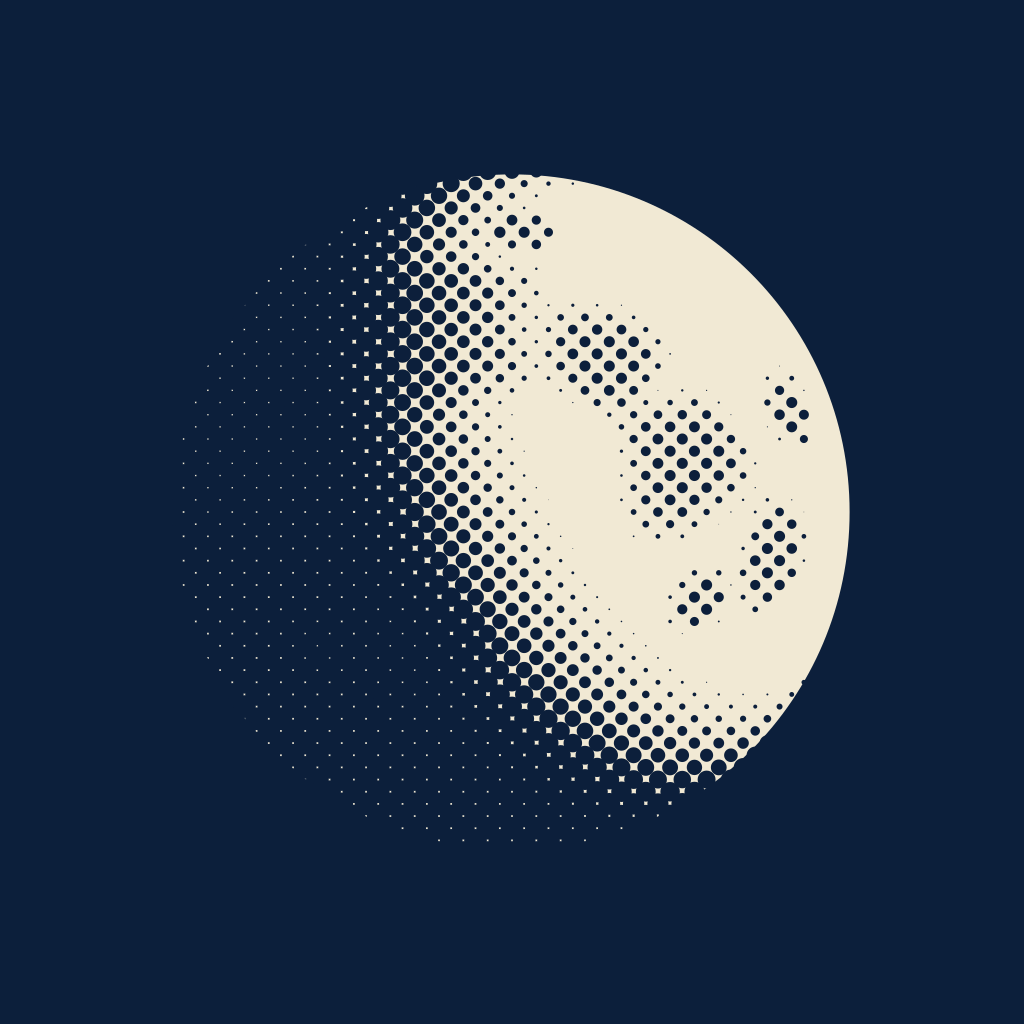
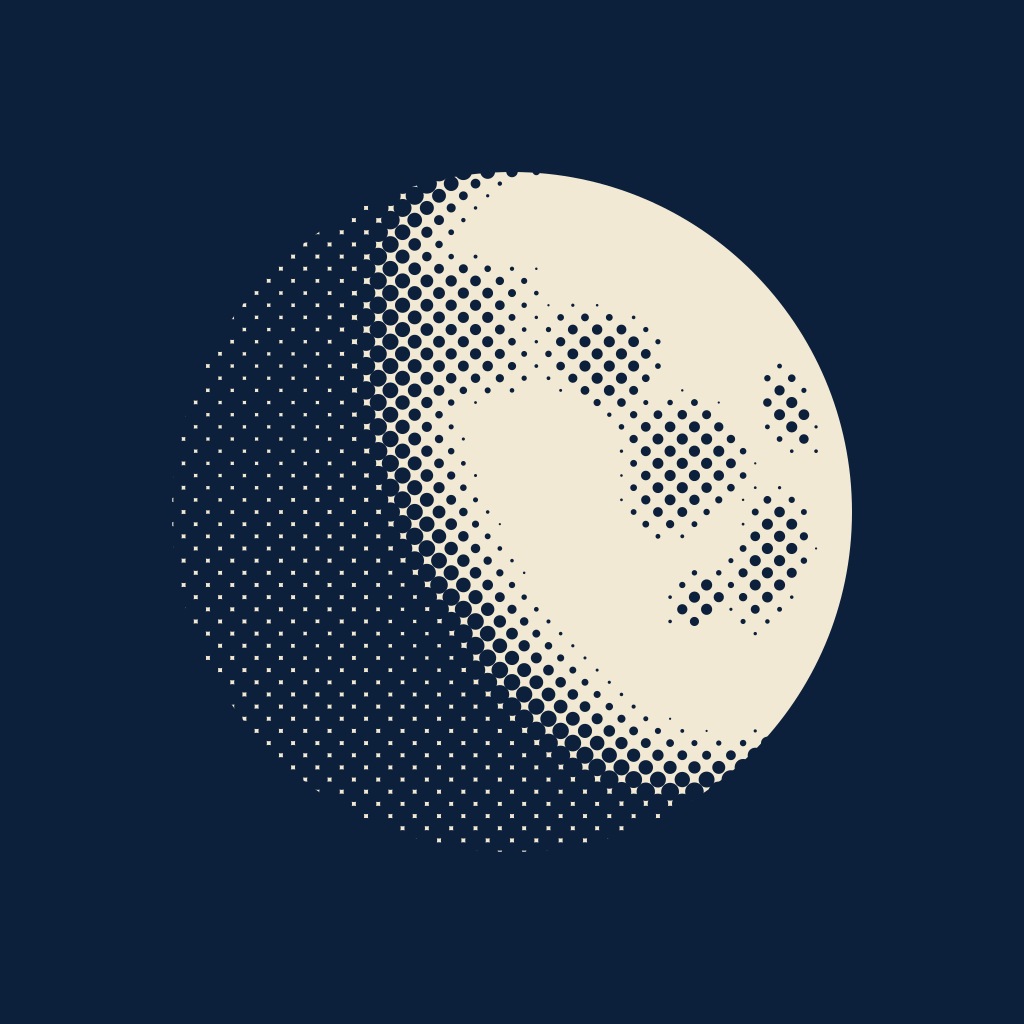
Map brightness to exact halftone ink coverage
The old dot radius 0.72 * sqrt(1 - brightness) printed about 1.63 times
the intended coverage in light tones. dot_radius now inverts the exact
coverage of a square dot grid, and the shading parameters are retuned
for it. Mare Frigoris is dropped, as it printed as a dashed line.
min_dot rises to 0.5, so tones below about 1 % ink print as plain paper.

The moon is now a paper disc over an ink field with unclipped dots,
which removes the paper hairline at the limb.

Also escape the SVG title, close the image in tag_png before overwriting
it, and add a ruff.toml with a line length of 100.

diff --git a/avatar/moon_avatar.py b/avatar/moon_avatar.py
@@ -3,9 +3,9 @@
 """Generate the halftone moon avatar as SVG files.
 
 The moon is a shaded sphere, printed in one ink on one paper color with a 45 degree
-halftone screen. The sky is a solid ink field with a circular hole for the moon. The dots
-are clipped to the limb, so the limb remains sharp. A smoothstep of the illumination gives
-a uniform lit area and a narrow terminator.
+halftone screen. The sky is a solid ink field; the moon is a paper disc printed over it.
+Dots that cross the limb print ink on ink, so the limb remains sharp. A smoothstep of the
+illumination gives a uniform lit area and a graded terminator.
 
 The maria, the large dark plains of the near side, are placed at approximate
 selenographic coordinates. Each mare is a soft disc on the sphere and is therefore
@@ -17,8 +17,10 @@ Usage (requires numpy):
 
     python3 moon_avatar.py [output-directory]
 
-This writes moon.svg and moon-earthshine.svg, by default next to this script. To export a
-PNG with the copyright notice (requires Inkscape and Pillow), run in this directory:
+This writes moon.svg and moon-earthshine.svg, by default next to this script. The mare
+boundaries depend on numpy's seeded Generator, whose stream may change between numpy
+releases. To export a PNG with the copyright notice (requires Inkscape and Pillow), run in
+this directory:
 
     inkscape moon.svg -o moon.png -w 1024 --export-background-opacity=1
     python3 -c "import moon_avatar; moon_avatar.tag_png('moon.png')"
@@ -27,6 +29,7 @@ PNG with the copyright notice (requires Inkscape and Pillow), run in this direct
 import math
 import sys
 from pathlib import Path
+from xml.sax.saxutils import escape
 
 import numpy as np
 
@@ -41,14 +44,17 @@ MARIA = [
     (-16, 33, 15),   # Mare Imbrium
     (18, 28, 9),     # Mare Serenitatis
     (31, 8, 11),     # Mare Tranquillitatis
-    (59, 17, 6),     # Mare Crisium
-    (51, -8, 8),     # Mare Fecunditatis
+    (59, 17, 7),     # Mare Crisium
+    (51, -8, 10),    # Mare Fecunditatis
     (35, -15, 5),    # Mare Nectaris
     (-17, -21, 10),  # Mare Nubium
     (-39, -24, 5),   # Mare Humorum
-    (2, 56, 5),      # Mare Frigoris
 ]
 # fmt: on
+# Mare Frigoris is omitted: at one to two screen cells wide it prints as a dashed line.
+
+# Mare radius, in degrees, at which the boundary noise has its nominal amplitude.
+REFERENCE_RADIUS = 15
 
 
 def unit(lon, lat):
@@ -83,14 +89,32 @@ def perlin(x, y, seed=0):
 
 
 def smoothstep(e0, e1, v):
+    """Cubic Hermite step from 0 at v <= e0 to 1 at v >= e1. Requires e0 < e1."""
     s = np.clip((v - e0) / (e1 - e0), 0, 1)
     return s * s * (3 - 2 * s)
+
+
+def dot_radius(ink):
+    """Dot radius, in units of the screen spacing, that covers the fraction ink of the paper.
+
+    Up to radius 1/sqrt(2) each dot overlaps only its four neighbors, two lenses per cell,
+    and the coverage reaches 1. The coverage is inverted by table interpolation. At ink 1
+    the radius 0.75 exceeds 1/sqrt(2), so solid areas print without specks where four dots
+    meet, at output widths of about 256 px and above. The radius jumps to 0.75 only at ink 1.
+    """
+    r = np.linspace(0, 1 / math.sqrt(2), 2001)
+    h = np.clip(0.5 / np.maximum(r, 1e-12), -1, 1)
+    lens = 2 * r * r * np.arccos(h) - 0.5 * np.sqrt(np.clip(4 * r * r - 1, 0, None))
+    cover = np.pi * r * r - 2 * lens
+    return np.where(ink < 1, np.interp(ink, cover, r), 0.75)
 
 
 def maria_cover(x, y, z, roughness=9.0, seed=7):
     """Coverage of the maria, in 0..1, at points (x, y, z) on the visible unit hemisphere.
 
-    x points right (east), y down (south) and z toward the viewer.
+    x points right (east), y down (south) and z toward the viewer. roughness scales the
+    boundary noise: the displacement peaks at about 0.7 times roughness degrees for a mare
+    of radius REFERENCE_RADIUS and is proportional to the radius.
     """
     lon = np.degrees(np.arctan2(x, z))
     lat = np.degrees(np.arcsin(np.clip(-y, -1, 1)))
@@ -99,7 +123,8 @@ def maria_cover(x, y, z, roughness=9.0, seed=7):
     for lo, la, rad in MARIA:
         cx, cy, cz = unit(lo, la)
         dist = np.degrees(np.arccos(np.clip(x * cx + y * cy + z * cz, -1, 1)))
-        cover = np.maximum(cover, 1 - smoothstep(rad * 0.45, rad * 1.35, dist + wobble * rad / 15))
+        shift = wobble * rad / REFERENCE_RADIUS
+        cover = np.maximum(cover, 1 - smoothstep(rad * 0.45, rad * 1.35, dist + shift))
     return cover
 
 
@@ -110,11 +135,11 @@ def moon_svg(
     radius=170.0,
     center=(232.0, 262.0),
     light=(0.78, -0.36, 0.52),
-    edge=(0.04, 0.62),
-    maria=0.2,
+    edge=(0.16, 0.5),
+    maria=0.33,
     earthshine=0.0,
     angle=45,
-    min_dot=0.15,
+    min_dot=0.5,
     title="Halftone moon",
 ):
     """Return the avatar as an SVG document. The screen grid is anchored at the moon's center.
@@ -122,7 +147,7 @@ def moon_svg(
     light: direction toward the sun, in the axes of maria_cover.
     edge: illumination values (cosine of incidence) at which the terminator starts and ends.
     maria: relative darkening at full maria coverage.
-    min_dot: dot radius in SVG units below which dots are omitted.
+    min_dot: dot radius in SVG units at or below which dots are omitted.
     """
     cx, cy = center
     R = radius
@@ -134,37 +159,33 @@ def moon_svg(
     a = math.radians(angle)
     X = cx + U * math.cos(a) - V * math.sin(a)
     Y = cy + U * math.sin(a) + V * math.cos(a)
-    keep = np.hypot(X - cx, Y - cy) < R + spacing
-    X, Y = X[keep], Y[keep]
+    d = np.hypot(U, V)
+    keep = d < R + spacing
+    X, Y, d = X[keep], Y[keep], d[keep]
 
     x, y = (X - cx) / R, (Y - cy) / R
     z = np.sqrt(np.clip(1 - x * x - y * y, 0, 1))
-    day = smoothstep(edge[0], edge[1], np.clip(lx * x + ly * y + lz * z, 0, 1))
+    day = smoothstep(edge[0], edge[1], lx * x + ly * y + lz * z)
     b = earthshine + (1 - earthshine) * day
     b = b * (1 - maria * maria_cover(x, y, z))
 
-    # Dots of radius spacing / sqrt(2) cover the paper; 0.72 slightly exceeds this, so the
-    # night side prints as solid ink.
-    r = spacing * 0.72 * np.sqrt(1 - b)
+    # Dots that cross the limb print ink on ink; a clip would add a second antialiased edge at
+    # the limb. Dots that lie entirely outside the disc are omitted.
+    r = spacing * dot_radius(1 - b)
     dots = "".join(
         f'<circle cx="{px:.2f}" cy="{py:.2f}" r="{q:.2f}"/>'
-        for px, py, q in zip(X, Y, r)
-        if q > min_dot
+        for px, py, q, dist in zip(X, Y, r, d)
+        if q > min_dot and dist - q < R
     )
 
-    # The sky overlaps the moon slightly; otherwise a hairline of paper shows at the limb.
-    hole = R - 1.2
     return (
         f'<svg xmlns="http://www.w3.org/2000/svg" viewBox="0 0 {SIZE} {SIZE}" '
         f'width="{SIZE}" height="{SIZE}">\n'
         f"  <!-- {COPYRIGHT} -->\n"
-        f"  <title>{title}</title>\n"
-        f'  <defs><clipPath id="disc"><circle cx="{cx}" cy="{cy}" r="{R}"/></clipPath></defs>\n'
-        f'  <rect width="{SIZE}" height="{SIZE}" fill="{paper}"/>\n'
-        f'  <path d="M0,0 H{SIZE} V{SIZE} H0Z M{cx - hole:.1f},{cy:.1f} '
-        f"a{hole:.1f},{hole:.1f} 0 1 0 {2 * hole:.1f},0 "
-        f'a{hole:.1f},{hole:.1f} 0 1 0 {-2 * hole:.1f},0Z" fill="{ink}" fill-rule="evenodd"/>\n'
-        f'  <g fill="{ink}" clip-path="url(#disc)">{dots}</g>\n'
+        f"  <title>{escape(title)}</title>\n"
+        f'  <rect width="{SIZE}" height="{SIZE}" fill="{ink}"/>\n'
+        f'  <circle cx="{cx}" cy="{cy}" r="{R}" fill="{paper}"/>\n'
+        f'  <g fill="{ink}">{dots}</g>\n'
         f"</svg>\n"
     )
 
@@ -175,13 +196,17 @@ def tag_png(path):
 
     info = PngImagePlugin.PngInfo()
     info.add_text("Copyright", COPYRIGHT)
-    Image.open(path).convert("RGB").save(path, optimize=True, pnginfo=info)
+    with Image.open(path) as im:
+        rgb = im.convert("RGB")
+    rgb.save(path, optimize=True, pnginfo=info)
 
 
 if __name__ == "__main__":
     out = Path(sys.argv[1]) if len(sys.argv) > 1 else Path(__file__).parent
-    (out / "moon.svg").write_text(moon_svg())
-    # The default center places the lit part in the middle; with earthshine the whole disc shows.
+    out.mkdir(parents=True, exist_ok=True)
+    (out / "moon.svg").write_text(moon_svg(), encoding="utf-8")
+    # With earthshine the whole disc shows, so it is centered.
     (out / "moon-earthshine.svg").write_text(
-        moon_svg(earthshine=0.16, center=(256.0, 256.0), title="Halftone moon with earthshine")
+        moon_svg(earthshine=0.05, center=(256.0, 256.0), title="Halftone moon with earthshine"),
+        encoding="utf-8",
     )
